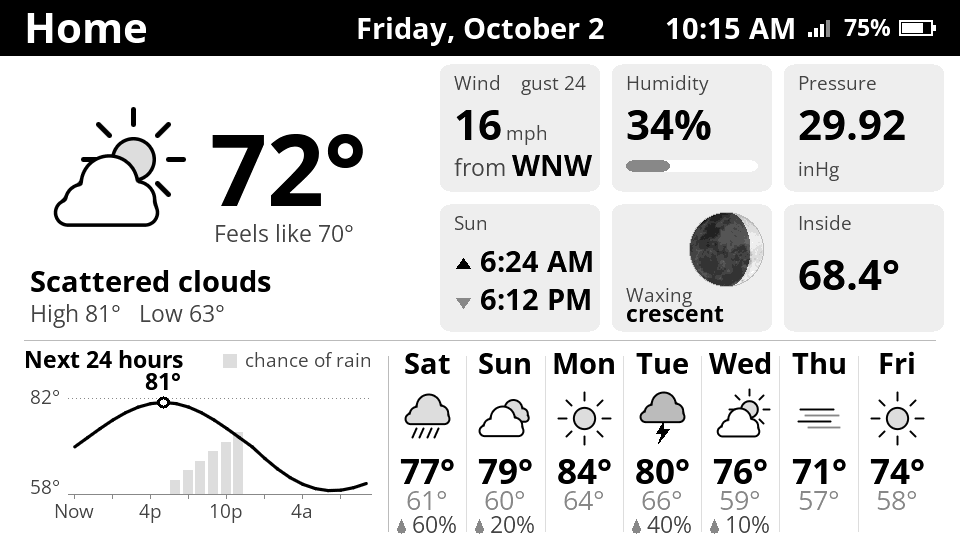
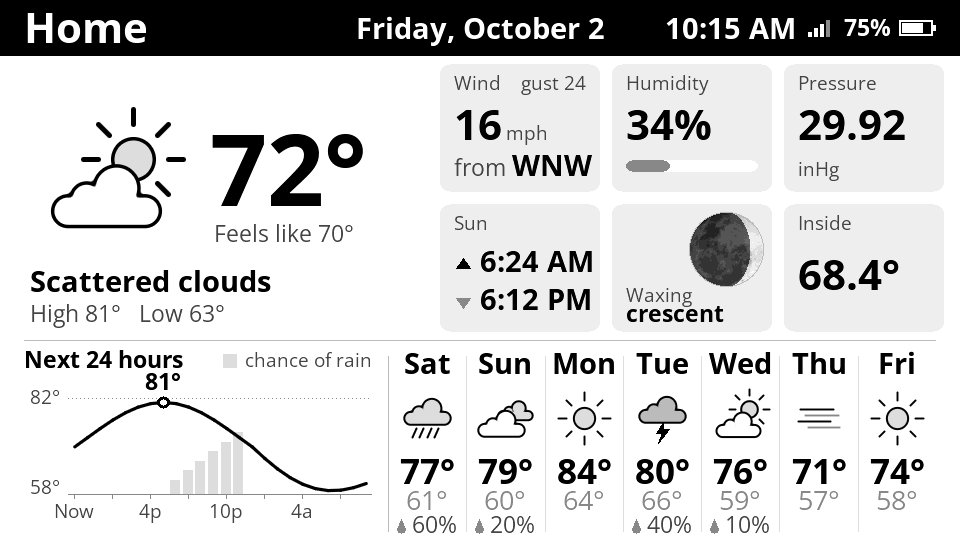
Classic cloud silhouette: wide rounded body, small left puff, big right puff
Claude-Session: https://claude.ai/code/session_01AUPozFroVL22kzHz3JWSUB

diff --git a/src/icons.cpp b/src/icons.cpp
@@ -28,8 +28,8 @@ static inline float sdCapsule(float x, float y, float ax, float bx, float cy, fl
     return sqrtf((x - px) * (x - px) + (y - cy) * (y - cy)) - r;
 }
 
-// A puffy cloud: three bumps sitting on a rounded base, so the bottom is a
-// smooth flat-ish curve with nothing hanging below it. Drawn as one outlined
+// A cloud: a wide body with fully rounded ends, a small puff on the left and
+// a big puff just right of centre - the classic cloud silhouette. Drawn as one outlined
 // shape (anti-aliased), so overlapping clouds layer cleanly.
 static void cloud(Canvas &c, int cx, int cy, float s, uint8_t fill) {
     float edge = s > 0.8f ? 3.5f : 2.0f;
@@ -37,10 +37,9 @@ static void cloud(Canvas &c, int cx, int cy, float s, uint8_t fill) {
     auto sdf = [&](float x, float y) {
         float u = (x - X) / s, v = (y - Y) / s;   // unit space
         const float k = 3;                                     // blend radius
-        float d = sdCapsule(u, v, -27, 27, 12, 10);            // base
-        d = smoothMin(d, sdCircle(u, v, -17, 4, 13), k);       // left bump
-        d = smoothMin(d, sdCircle(u, v, 2, -8, 21), k);        // big middle bump
-        d = smoothMin(d, sdCircle(u, v, 21, 3, 14), k);        // right bump
+        float d = sdCapsule(u, v, -27, 27, 11, 12);            // wide body, fully rounded ends
+        d = smoothMin(d, sdCircle(u, v, -14, 2, 12), k);       // smaller puff on the left
+        d = smoothMin(d, sdCircle(u, v, 7, -5, 17), k);        // big puff right of centre
         return d * s;                                          // back to pixels
     };
     c.shape(cx - lroundf(40 * s), cy - lroundf(32 * s), cx + lroundf(40 * s), cy + lroundf(25 * s),
@@ -133,16 +132,16 @@ void drawSkyIcon(Canvas &c, int cx, int cy, int size, Sky sky, bool night) {
         else sun(c, cx, cy, s * 1.25f);
         break;
     case Sky::FewClouds:
-        if (night) crescent(c, cx + lroundf(12 * s), cy - lroundf(22 * s), s * 0.9f);
+        if (night) crescent(c, cx + lroundf(12 * s), cy - lroundf(17 * s), s * 0.9f);
         else sun(c, cx + lroundf(14 * s), cy - lroundf(14 * s), s);
         cloud(c, cx - lroundf(4 * s), cy + lroundf(10 * s), s * 0.95f, Tone::Paper);
         break;
     case Sky::Clouds:
-        cloud(c, cx + lroundf(12 * s), cy - lroundf(10 * s), s * 0.75f, Tone::Faint);
+        cloud(c, cx + lroundf(16 * s), cy - lroundf(13 * s), s * 0.75f, Tone::Faint);
         cloud(c, cx - lroundf(6 * s), cy + lroundf(8 * s), s, Tone::Paper);
         break;
     case Sky::Overcast:
-        cloud(c, cx + lroundf(12 * s), cy - lroundf(10 * s), s * 0.75f, Tone::Soft);
+        cloud(c, cx + lroundf(16 * s), cy - lroundf(13 * s), s * 0.75f, Tone::Soft);
         cloud(c, cx - lroundf(6 * s), cy + lroundf(8 * s), s, Tone::Faint);
         break;
     case Sky::Drizzle:
